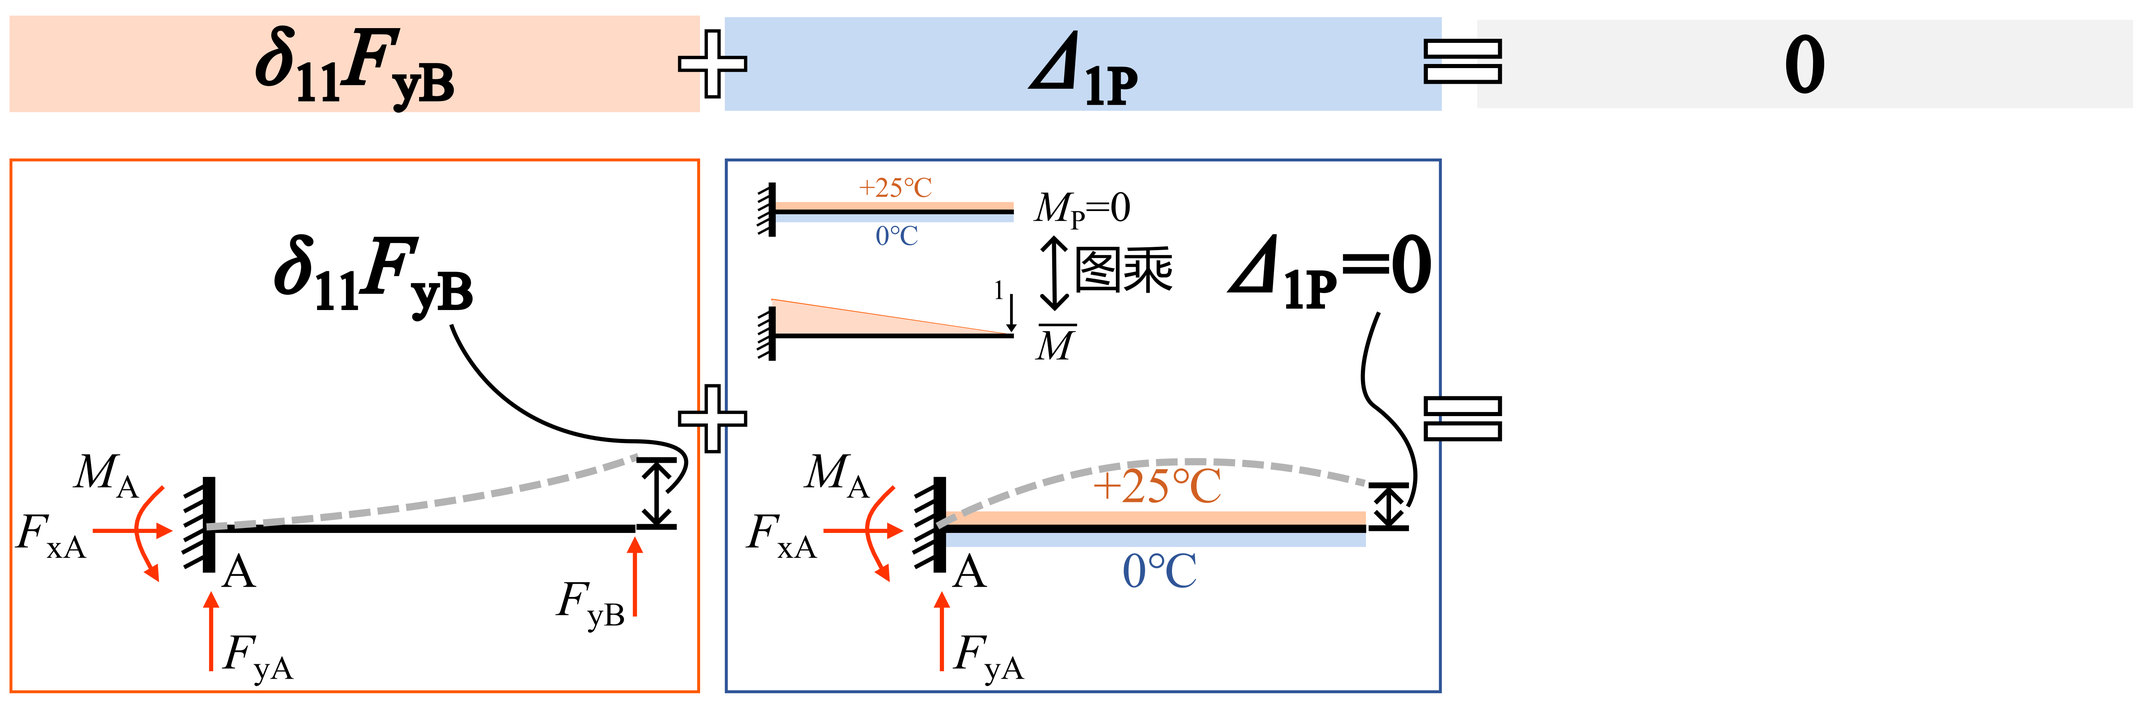
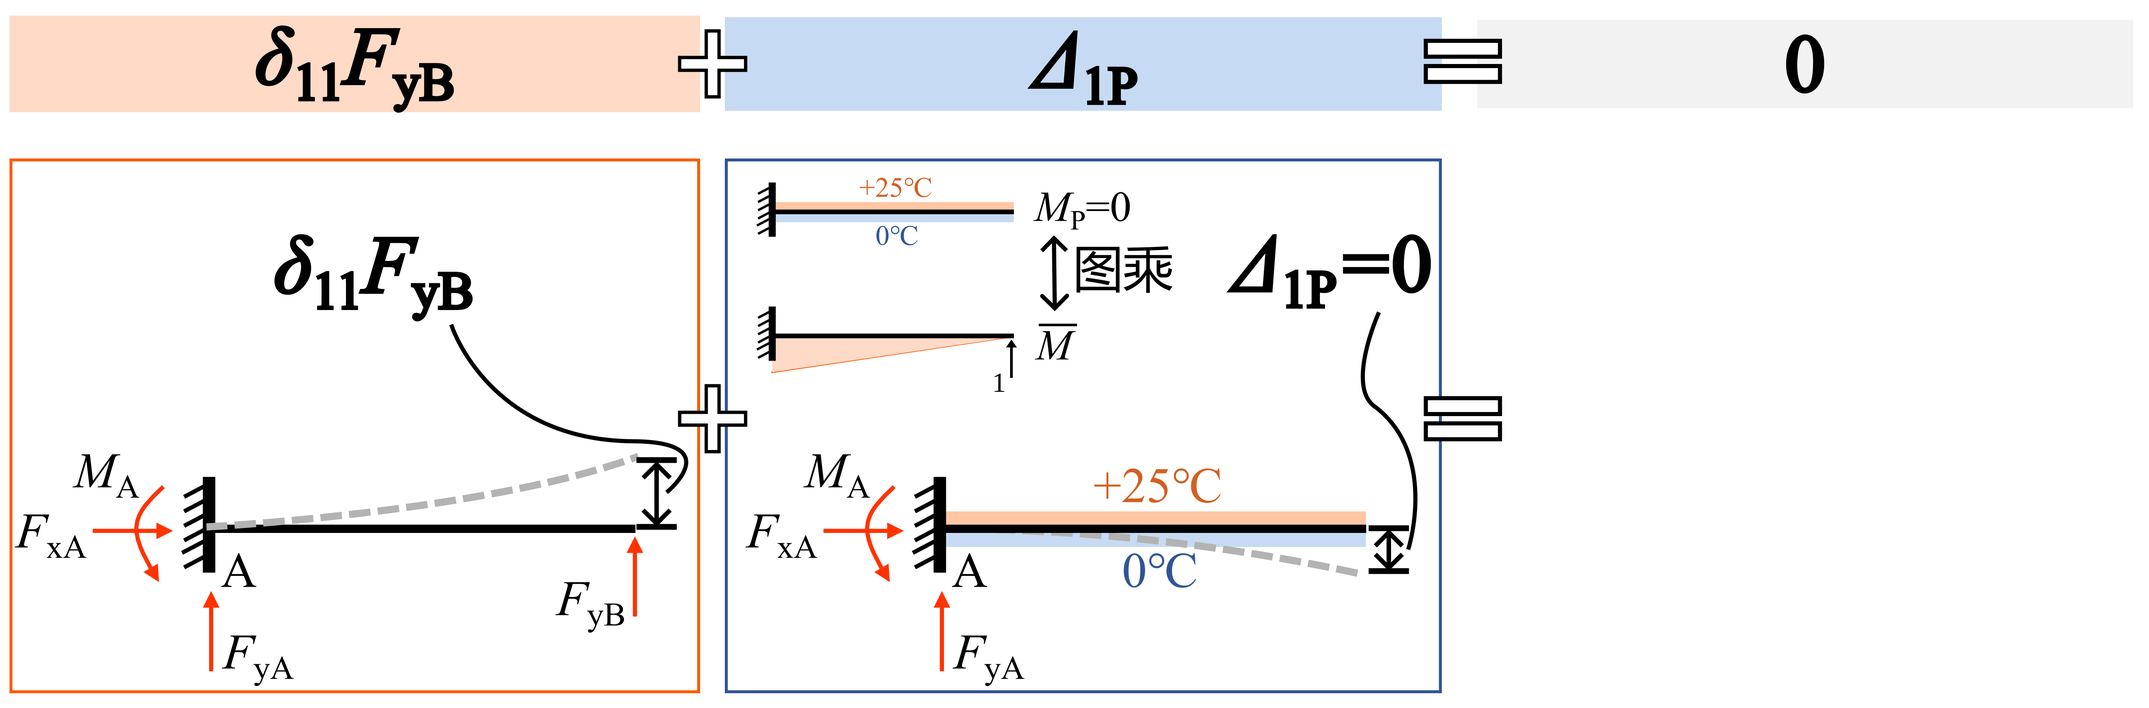
Add files via upload

diff --git a/static/app.js b/static/app.js
@@ -379,6 +379,7 @@ function showToast(message) {
 
 const OFFLINE_CLASSROOM_STATE_KEY = "beam-offline-classroom-state-v5-sep27-heat";
 const OFFLINE_STUDENT_STATE_KEY = "beam-offline-student-state-v5-sep27-heat";
+const TRANSFER_SCENARIO_HEAT = "beam-width-double-heat";
 
 function offlineStateKey() {
   return role === "teacher" || isPreview ? OFFLINE_CLASSROOM_STATE_KEY : OFFLINE_STUDENT_STATE_KEY;
@@ -403,6 +404,7 @@ function createOfflineState() {
     offline_choice: "",
     vote_feedback_visible: false,
     migration_answers_visible: false,
+    migration_scenario: TRANSFER_SCENARIO_HEAT,
     migration_choice: "",
     migration_comment: "",
     migration_submitted: false,
@@ -414,6 +416,16 @@ function loadOfflineState() {
     const saved = JSON.parse(localStorage.getItem(offlineStateKey()) || "null");
     if (saved?.progress && saved?.vote_counts) {
       saved.force_reveal_step = Math.min(A1_LAST_STEP_HEAT, Number(saved.force_reveal_step || 0));
+      // 迁移题已换成梁宽加倍：旧题的提交不能锁住新题，前面各阶段的进度继续保留。
+      if (saved.migration_scenario !== TRANSFER_SCENARIO_HEAT) {
+        saved.migration_scenario = TRANSFER_SCENARIO_HEAT;
+        saved.migration_answers_visible = false;
+        saved.migration_choice = "";
+        saved.migration_comment = "";
+        saved.migration_submitted = false;
+        saved.progress.migration = 0;
+        saveOfflineState(saved);
+      }
       return saved;
     }
   } catch (_) {}
@@ -810,7 +822,7 @@ function bindDeformationStoryboard() {
     slider.disabled = uniform;
     card.querySelector('[data-force-value]').textContent = `${formatNumberHeat(2 * deformationBasicX1)} kN`;
     card.querySelector('[data-force-readouts]').innerHTML = labReadouts(false, deformationBasicX1, mode)
-      + (step >= 4 ? `<div class="readout displacement-readout"><strong>${formatNumberHeat(1.5 - 4 * x1)} mm</strong><small>B点位移 Δ<sub>B</sub>（向下为正）</small></div>` : '');
+      + (step >= 4 ? `<div class="readout displacement-readout"><strong>${formatNumberHeat(4 * x1 - 1.5)} mm</strong><small>B点位移 Δ<sub>B</sub>（向上为正）</small></div>` : '');
     card.querySelector('.hint').innerHTML = uniform ? '温度单独作用，F<sub>yB</sub> 固定为零。' : '一个滑块共同控制上下两排。';
     card.querySelector('[data-special-candidates]').hidden = step < 4;
     document.querySelectorAll('[data-special-candidate]').forEach(button => button.setAttribute('aria-pressed', String(Number(button.dataset.specialCandidate) === x1)));
@@ -981,14 +993,14 @@ function updateDeformationFormulaValue(step, r) {
 }
 
 function deformationFormulaHtml(step, r = deformationBasicX1) {
-  // heat：温度引起的 B 点位移 αΔt·l²/(2h) = 1.5 mm（向下）；B 点总位移 = 1.5 − 4r mm（r 为内部值，FyB = 2r kN）。
+  // heat：全节沿 FyB（向上）为正。温度引起的 B 点位移 Δ1t = −αΔt·l²/(2h) = −1.5 mm（向下）；B 点总位移 = 4r − 1.5 mm（r 为内部值，FyB = 2r kN）。
   const uniform = '<span class="fraction"><span><i>α</i>Δ<i>t</i><i>l</i><sup>2</sup></span><span>2<i>h</i></span></span>';
   const fyb = '<span class="fraction"><span><i>l</i><sup>3</sup></span><span>3<i>E</i><i>I</i></span></span><i>F</i><sub><i>yB</i></sub>';
-  if (step === 2) return `&minus;${fyb}`;
-  if (step === 3) return `${uniform} = 1.5 mm`;
-  const combined = `Δ<sub>B</sub> = <span class="formula-fyb-heat">&minus;${fyb}</span> + <span class="formula-thermal-heat">(${uniform} = 1.5 mm)</span>`;
+  if (step === 2) return fyb;
+  if (step === 3) return `&minus;${uniform} = &minus;1.5 mm`;
+  const combined = `Δ<sub>B</sub> = <span class="formula-fyb-heat">${fyb}</span> + <span class="formula-thermal-heat">(&minus;${uniform} = &minus;1.5 mm)</span>`;
   if (step === 4) return combined;
-  const result = `${formatNumberHeat(1.5 - 4 * r)} mm`;
+  const result = `${formatNumberHeat(4 * r - 1.5)} mm`;
   return `${combined} = ${result}`;
 }
 
@@ -1031,6 +1043,7 @@ function updateDeformationReveal(state) {
 
 function renderForce() {
   app.innerHTML = `${steps(2)}<section class="panel force-story"><h1>${forceStepHeadings[0]}</h1>
+    ${calculationParametersHtmlHeat("compact")}
     <div class="force-composition">
       <div class="force-free-canvas" aria-label="11元素自由排版画布">
         ${Object.keys(FORCE_ELEMENT_META).map(forceElementHtml).join("")}
@@ -1057,6 +1070,7 @@ function renderDeformation() {
   lastDeformationRevealStep = 0;
   const slots = ["originalStructure", "originalMomentBg", "originalShearBg", "basicStructure", "basicMomentBg", "basicShearBg"];
   app.innerHTML = `${steps(3)}<section class="panel force-story deformation-story" data-reveal-step="0"><h1></h1>
+    ${calculationParametersHtmlHeat("compact")}
     <div class="force-composition deformation-composition">
       <div class="force-free-canvas" aria-label="切开竖向链杆前后的受力对照">
         <div class="deformation-row-divider" data-deformation-divider hidden aria-hidden="true"></div>
@@ -1084,6 +1098,19 @@ function renderDeformation() {
   document.querySelector(".force-free-canvas").insertAdjacentHTML("beforeend", compareViewHtmlHeat()); // heat
   bindDeformationStoryboard();
   updateDeformationReveal(currentState);
+}
+
+function calculationParametersHtmlHeat(variant) {
+  return `<aside class="calculation-parameters-heat parameters-${variant}-heat" data-calculation-parameters-heat aria-label="计算参数">
+    <strong class="parameters-heading-heat">计算参数</strong>
+    <div class="parameters-values-heat">
+      <span><i>l</i> = 3 m</span>
+      <span><i>h</i> = 0.30 m</span>
+      <span><i>EI</i> = 4500 kN·m<sup>2</sup></span>
+      <span><i>α</i> = 4×10<sup>−6</sup> /℃</span>
+      <span>Δ<i>t</i> = 25℃</span>
+    </div>
+  </aside>`;
 }
 
 // ===== heat：A1 右侧「力法步骤」框；协调图与位移公式 =====
@@ -1114,8 +1141,8 @@ const STEP_FORMULAS_HEAT = {
 };
 const STEP_FIGURES_HEAT = {
   methodStrip: { frames: METHOD_STRIP_FRAMES_HEAT, alt: "基本结构在 FyB 作用下和在温度作用下的 B 点位移，原结构 B 点位移为零" },
-  fybDisplacement: { src: METHOD_STRIP_FRAMES_HEAT[3], alt: "FyB 引起的 B 点位移：δ11 FyB = −l³ FyB / (3EI)", formulas: ["fyb"] },
-  thermalDisplacement: { src: "/assets/force-story/scene/A1-4-增补-新-5.png", alt: "力位移与温度位移：δ11 FyB = −l³ FyB / (3EI)，Δ1T = αΔt l² / (2h) = 1.5 mm", formulas: ["fyb", "thermal"] },
+  fybDisplacement: { src: METHOD_STRIP_FRAMES_HEAT[3], alt: "FyB 引起的 B 点位移：δ11 FyB = l³ FyB / (3EI)", formulas: ["fyb"] },
+  thermalDisplacement: { src: "/assets/force-story/scene/A1-4-增补-新-5.png", alt: "力位移与温度位移：δ11 FyB = l³ FyB / (3EI)，Δ1T = −αΔt l² / (2h) = −1.5 mm", formulas: ["fyb", "thermal"] },
   bendSources: { src: "/assets/force-story/scene/bend-sources-heat.png", alt: "弯曲变形的两个来源：由弯矩引起的用 M/EI 表示、用图乘法计算；由温度引起的不在 M/EI 里，要用温度位移公式" },
 };
 
@@ -1138,7 +1165,8 @@ function stepFigureHtmlHeat(kind) {
   } else {
     content = (figure.frames || [figure.src]).map((src, index) => `<img src="${runtimeUrl(src)}" alt="${figure.alt}" ${index ? "hidden" : ""}/>`).join("");
   }
-  return `<figure class="step-figure-heat" data-step-figure-heat="${kind}" hidden>${content}</figure>`;
+  const parameters = kind === "bendSources" ? "" : calculationParametersHtmlHeat("prominent");
+  return `<figure class="step-figure-heat" data-step-figure-heat="${kind}" hidden>${parameters}${content}</figure>`;
 }
 
 function methodStripIntervalHeat(figure) {
@@ -1173,6 +1201,7 @@ function playMethodStripHeat(figure) {
 function updateStepFigureHeat(story, on, kind) {
   if (!story) return;
   story.toggleAttribute("data-figure-heat", Boolean(on));
+  story.dataset.parametersHeat = on && kind !== "bendSources" ? "prominent" : "compact";
   story.querySelectorAll("[data-step-figure-heat]").forEach(figure => {
     const active = Boolean(on) && figure.dataset.stepFigureHeat === kind;
     const entering = active && figure.hidden;
@@ -1370,12 +1399,13 @@ function renderMigration() {
 // 每位同学一句想法，卡片开头的「+人数」= 句数；同一选项的几句连成一行，像走马灯一样向左滚动。
 // 下面是默认内容；在版面调试里可以改人数和文字（存在 layout-overrides.js 的 transfer 里）。人数为 0 的选项也显示卡片，写灰色的「暂无回答」。
 const TRANSFER_DEFAULT = {
-  B: 0,
-  C: 4,
+  scenario: TRANSFER_SCENARIO_HEAT,
+  B: 4,
+  C: 0,
   texts: {
-    A: ["需要增加木柱的力。", "平衡方程里要多一个木柱的力。"],
-    B: ["B点现在是会压缩的木柱，释放约束时要用木柱的力代替 <i>F</i><sub>yB</sub>。"],
-    C: ["温度让B点想往下走，木柱被压缩，位移不再是0。", "木柱能让出一点变形，Δ<sub>B</sub> 不再等于 0。", "B点的位移应等于木柱的附加压缩量 <i>F</i><sub>yB</sub>/<i>k</i>。", "B点向下的位移要和木柱的压缩量一样大，等于 <i>F</i><sub>yB</sub>/<i>k</i>。"],
+    A: [],
+    B: ["更新 <i>EI</i>，重新计算。", "δ<sub>11</sub> 减半。", "反力位移项减半，温度位移不变。", "2<i>F</i><sub>yB</sub> 改为 <i>F</i><sub>yB</sub>。"],
+    C: [],
   },
 };
 window.BEAM_TRANSFER_DEFAULT = structuredClone(TRANSFER_DEFAULT);
@@ -1424,13 +1454,13 @@ window.addEventListener("beam-votes-changed", refreshTransferCards);
 function renderTransfer() {
   const phone = isSelfGuidedStudent; // 手机：选、写、提交一次，提交后看到回答；教师投屏：点「显示回答」才出现
   app.innerHTML = `<section class="panel transfer-story">
-    <header class="transfer-head"><h1>考虑立柱压缩，哪一处求解条件需要调整？</h1></header>
+    <header class="transfer-head"><h1>木梁截面宽度加倍，求解过程哪里需要修改？</h1><p class="transfer-context-heat">梁高、跨度、材料和温差保持不变。</p></header>
     <div class="transfer-body">
       <div class="transfer-ask"><h3>选择位置 + 说明修改</h3>
         <div class="options transfer-options">
           <button class="option" data-transfer-choice="A" aria-pressed="false"><strong>A</strong><span>静力平衡条件</span></button>
-          <button class="option" data-transfer-choice="B" aria-pressed="false"><strong>B</strong><span>第一次提问<small>释放约束，用 <i>F</i><sub>yB</sub> 代替</small></span></button>
-          <button class="option" data-transfer-choice="C" aria-pressed="false"><strong>C</strong><span>第二次提问<small>补充位移条件</small></span></button>
+          <button class="option" data-transfer-choice="B" aria-pressed="false"><strong>B</strong><span>第一次提问<small>Δ<sub>1P</sub> = 0，计算 δ<sub>11</sub> 和 <i>F</i><sub>yB</sub></small></span></button>
+          <button class="option" data-transfer-choice="C" aria-pressed="false"><strong>C</strong><span>第二次提问<small>补上温度位移，令B点总位移为0</small></span></button>
         </div>
         <label class="transfer-label" for="transferIdea">你准备怎样修改？</label>
         <div class="vote-submit-row${phone ? "" : " transfer-idea-only"}"><input id="transferIdea" type="text" maxlength="80" placeholder="写一句修改想法……"/>${phone ? '<button class="primary" id="submitTransfer" disabled>提交</button>' : ""}</div>

diff --git a/static/styles.css b/static/styles.css
@@ -715,6 +715,7 @@ body:not(.layout-mode) :is(.transfer-options small, .transfer-options small *, .
 .transfer-story { display: grid; gap: 20px; }
 .transfer-head { padding-bottom: 16px; border-bottom: 1px solid var(--line); }
 .transfer-head h1 { margin: 0; line-height: 1.4; }
+.transfer-context-heat { margin: 4px 0 0; color: var(--muted); line-height: 1.3; }
 .transfer-body { display: grid; grid-template-columns: minmax(0, 1fr) minmax(0, 1.25fr); gap: 28px; align-items: start; }
 .transfer-body h3 { margin: 0 0 12px; }
 .transfer-options { margin-top: 0; }
@@ -752,6 +753,9 @@ body:not(.layout-mode) .transfer-card .transfer-count { font-size: calc((var(--t
 /* M 页字号和 A2-6（E 投票页）对齐（投屏宽屏档）：题目 150%、两栏标题 140%、选项和回答 160%、「你准备怎样修改？」和输入框 150%。
    在版面调试里再调文字大小，是在这个基础上放大缩小。手机上不变。 */
 @media (min-width: 1300px) {
+  .transfer-story { gap: 14px; }
+  .transfer-head { padding-bottom: 12px; }
+  .transfer-options .option { padding: 12px 18px; }
   body:not(.layout-mode) :is(.transfer-head h1, .transfer-head h1 *) { font-size: calc(var(--text-title) * 1.5) !important; }
   body:not(.layout-mode) :is(.transfer-body h3, .transfer-body h3 *) { font-size: calc(var(--text-title) * 1.4) !important; }
   body:not(.layout-mode) .transfer-options .option :is(strong, span) { font-size: calc(var(--text-body) * 1.6) !important; }
@@ -833,3 +837,36 @@ body .step-figure-formula-heat :is(sub, sup) { font-size: 70% !important; line-h
 .caption-role-heat[hidden] { display: none !important; }
 body:not(.layout-mode) .caption-role-heat { font-size: var(--text-small) !important; }
 .force-story:not(.deformation-story) .caption-role-heat { display: block; text-align: center; }
+
+/* 同一组题设：整图页放在顶部留白，其余计算页在标题旁显示，窄屏换行。 */
+.calculation-parameters-heat { --heat-parameters-size: 20px; --text-body: calc(var(--heat-parameters-size) * var(--heat-parameters-scale, 1)); box-sizing: border-box; color: #344c68; line-height: 1.45; }
+body .calculation-parameters-heat, body .calculation-parameters-heat * { font-size: var(--text-body) !important; }
+body .calculation-parameters-heat sup { font-size: .65em !important; line-height: 0; }
+.parameters-values-heat { display: flex; flex-wrap: wrap; align-items: baseline; gap: 4px 24px; }
+.parameters-values-heat > span { white-space: nowrap; }
+.parameters-heading-heat { flex-shrink: 0; color: var(--blue); }
+.parameters-compact-heat { display: flex; flex: 0 0 auto; align-items: baseline; gap: 10px 20px; margin: 0 14px 10px; padding: 5px 0 8px; border-bottom: 1px solid #dce5ee; }
+.force-story[data-parameters-heat="prominent"] > .parameters-compact-heat { display: none; }
+.parameters-prominent-heat { --heat-parameters-size: 30px; position: absolute; z-index: 3; top: 22px; left: 24px; right: 24px; padding: 12px 18px; border-left: 5px solid var(--blue); border-radius: 0 10px 10px 0; background: #f0f5fb; font-weight: 700; }
+.parameters-prominent-heat .parameters-heading-heat { display: block; margin-bottom: 5px; letter-spacing: .08em; }
+body .parameters-prominent-heat .parameters-heading-heat { font-size: calc(var(--text-body) * .7) !important; }
+@media (min-width: 781px) {
+  .force-story:has(.method-steps-heat:not([hidden])) .parameters-prominent-heat { right: calc(var(--force-control-width) + 24px); }
+  .step-figure-heat:has(> .parameters-prominent-heat) > :is(img, svg) { top: 154px; height: calc(100% - 164px); }
+}
+@media (min-width: 1300px) {
+  .force-story:has(> .parameters-compact-heat) { position: relative; }
+  .parameters-compact-heat { position: absolute; top: 9px; right: 14px; margin: 0; padding: 3px 0; border: 0; }
+  .force-story:has(.method-steps-heat:not([hidden])) .parameters-prominent-heat { right: 398px; }
+}
+@media (min-width: 781px) and (max-width: 1299px) {
+  .parameters-prominent-heat { --heat-parameters-size: 24px; top: 14px; left: 16px; padding: 10px 14px; }
+  .parameters-values-heat { column-gap: 18px; }
+}
+@media (max-width: 780px) {
+  .calculation-parameters-heat { --heat-parameters-size: 16px; }
+  .parameters-compact-heat { display: block; margin: 0 14px 10px; }
+  .parameters-compact-heat .parameters-heading-heat { display: block; margin-bottom: 4px; }
+  .parameters-prominent-heat { position: static; margin: 12px; padding: 10px 12px; }
+  .parameters-values-heat { gap: 5px 18px; }
+}

diff --git a/static/layout-tuner.js b/static/layout-tuner.js
@@ -308,6 +308,7 @@
     // heat：A1-1～A1-5 右侧「力法步骤」框，以及各页整图
     { key: "methodStepsHeat", label: "「力法步骤」框", sel: "#app .method-steps-heat", kind: "box" },
     { key: "methodStepsTitleHeat", label: "「力法步骤」标题", sel: "#app .method-steps-heat > h2", kind: "text" },
+    { key: "calculationParametersHeat", label: "计算参数（整体）", sel: "#app [data-calculation-parameters-heat]", kind: "group" },
     { key: "methodStripHeat", label: "A1-4 顺序示意图", sel: '#app [data-step-figure-heat="methodStrip"]', kind: "box" },
     { key: "fybDisplacementHeat", label: "A1-5 FyB 位移图", sel: '#app [data-step-figure-heat="fybDisplacement"]', kind: "box" },
     { key: "bendSourcesHeat", label: "A2-1 弯曲变形的两个来源", sel: '#app [data-step-figure-heat="bendSources"]', kind: "box" },
@@ -317,6 +318,7 @@
     { key: "tfStory", label: "M：整块面板", sel: "#app > .transfer-story", kind: "panel" },
     { key: "tfHead", label: "M：题目区", sel: "#app .transfer-head", kind: "group" },
     { key: "tfTitle", label: "M：题目", sel: "#app .transfer-head h1", kind: "text" },
+    { key: "tfContextHeat", label: "M：情境条件", sel: "#app .transfer-context-heat", kind: "text" },
     { key: "tfBody", label: "M：左右两栏", sel: "#app .transfer-body", kind: "group" },
     { key: "tfAsk", label: "M：左栏（选择与修改）", sel: "#app .transfer-ask", kind: "group" },
     { key: "tfAskTitle", label: "M：「选择位置 + 说明修改」", sel: "#app .transfer-ask > h3", kind: "text" },
@@ -537,6 +539,9 @@
   // M 页学生回答：{ B: 人数, C: 人数, texts: { A: [每人一句…], B: […], C: […] } }，不对就不用。
   function normTransfer(raw) {
     if (!raw || typeof raw !== "object") return null;
+    // 只更新旧题的回答；恢复编辑草稿时保留其它页面和版面调整。
+    const current = window.BEAM_TRANSFER_DEFAULT;
+    if (current?.scenario && raw.scenario !== current.scenario) raw = current;
     const count = (value) => { const n = Math.round(Number(value)); return Number.isFinite(n) && n >= 0 ? Math.min(n, 999) : null; };
     const B = count(raw.B);
     const C = count(raw.C);
@@ -546,7 +551,7 @@
       const list = raw.texts && Array.isArray(raw.texts[key]) ? raw.texts[key] : [];
       texts[key] = list.slice(0, 999).map((text) => String(text == null ? "" : text).slice(0, 300));
     }
-    return { B, C, texts };
+    return { scenario: raw.scenario, B, C, texts };
   }
   // 教师版各页画布的大小（手机照搬用）：{ width: 量的时候教师版页面的宽（px），pages: { "A1-0": [画布宽, 画布高]（px）, … } }
   function normCanvas(raw) {
@@ -666,7 +671,11 @@
     if (p.pb != null) d.push(`padding-bottom: ${p.pb}px${I}`);
     if (p.gap != null) d.push(`gap: ${p.gap}px${I}`);
     if (p.order != null) d.push(`order: ${p.order}${I}`);
-    if (p.text != null) d.push(...textVars(round(p.text / 100, 4)));
+    if (p.text != null) {
+      const scale = round(p.text / 100, 4);
+      if (entry.sel === "#app [data-calculation-parameters-heat]") d.push(`--heat-parameters-scale: ${scale}${I}`);
+      else d.push(...textVars(scale));
+    }
     if (p.ar != null) d.push(`aspect-ratio: ${p.ar}${I}`);
     if (p.colR != null) d.push(`grid-template-columns: minmax(0, 1fr) ${p.colR}px${I}`);
     if (p.heroL != null) d.push(`grid-template-columns: minmax(0, ${p.heroL}fr) minmax(0, ${round(100 - p.heroL, 2)}fr)${I}`);
@@ -828,7 +837,7 @@
           const scope = scopeFor(bucketKey, regimeKey);
           for (const [entryKey, entry] of Object.entries(pages[bucketKey])) {
             const body = !inherit ? declarations(entry)
-              : replica ? (REPLICA_KINDS.has(entry.kind) || entry.kind === "canvas" ? replicaDeclarations(entry, replica) : declarations(entry, ["frameInterval"]))
+              : replica ? (REPLICA_KINDS.has(entry.kind) || entry.kind === "canvas" ? replicaDeclarations(entry, replica) : declarations(entry, entryKey === "calculationParametersHeat" ? ["text"] : ["frameInterval"]))
               : declarations(Object.assign({}, entry, { props: inheritedProps(entry) }));
             // :where() 不增加优先级，保持「两种视图 → 当前视图」的先后关系。
             const layoutScope = isConsoleKey(bucketKey) && FRAME_OWNED.has(entryKey) ? `${scope}:where(:not(.beam-frame))` : scope;

diff --git a/static/layout-overrides-heat.js b/static/layout-overrides-heat.js
@@ -871,7 +871,7 @@ window.BEAM_LAYOUT_OVERRIDES = {
           "kind": "figureFormula",
           "label": "紫色温度位移公式",
           "props": {
-            "formulaScale": 120,
+            "formulaScale": 112,
             "formulaX": 2954.3,
             "formulaY": 535
           },
@@ -1643,23 +1643,18 @@ window.BEAM_LAYOUT_OVERRIDES = {
   },
   "savedAt": "2026-10-11 19:51:15",
   "transfer": {
-    "B": 0,
-    "C": 5,
+    "scenario": "beam-width-double-heat",
+    "B": 4,
+    "C": 0,
     "texts": {
-      "A": [
-        "需要增加木柱的力。",
-        "平衡方程里要多一个木柱的力。"
-      ],
+      "A": [],
       "B": [
-        "B点现在是会压缩的木柱，释放约束时要用木柱的力代替 <i>F</i><sub>yB</sub>。"
+        "更新 <i>EI</i>，重新计算。",
+        "δ<sub>11</sub> 减半。",
+        "反力位移项减半，温度位移不变。",
+        "2<i>F</i><sub>yB</sub> 改为 <i>F</i><sub>yB</sub>。"
       ],
-      "C": [
-        "温度让B点想往下走，木柱被压缩，位移不再是0。",
-        "B点的位移应等于木柱的附加压缩量 <i>F</i><sub>yB</sub>/<i>k</i>。",
-        "B点不能再设位移为零。",
-        "木柱能让出一点变形，Δ<sub>B</sub> 不再等于 0。",
-        "B点向下的位移要和木柱的压缩量一样大，等于 <i>F</i><sub>yB</sub>/<i>k</i>。"
-      ]
+      "C": []
     }
   },
   "version": 3,

diff --git a/student.html b/student.html
@@ -5,7 +5,7 @@
     <meta name="viewport" content="width=device-width,initial-scale=1,viewport-fit=cover" />
     <meta name="theme-color" content="#f3eee4" />
     <title>BEAM LAB · 学生体验页-heat</title>
-    <link rel="stylesheet" href="./static/styles.css?v=v10-oct11-formula-edit-heat" />
+    <link rel="stylesheet" href="./static/styles.css?v=v12-oct12-transfer-width-heat" />
   </head>
   <body>
     <header class="topbar">
@@ -25,10 +25,10 @@
     <script src="./static/offline-data.js?v=v6-oct11-a1a2-heat"></script>
     <!-- 版面调试保存的配置（由 static/layout-tuner.js 读取） -->
     <script>document.write('<script src="./static/layout-overrides-heat.js?t=' + Date.now() + '"><\/script>');</script>
-    <script src="./static/app.js?v=v10-oct11-formula-edit-heat"></script>
+    <script src="./static/app.js?v=v12-oct12-transfer-width-heat"></script>
     <script src="./static/typography.js?v=v6-sep30-m2-heat"></script>
     <!-- 版面：套用保存的版面（手机上先继承教师版）；手机版面在 student-edit.html 里调 -->
-    <script src="./static/layout-tuner.js?v=tuner-17-heat"></script>
+    <script src="./static/layout-tuner.js?v=tuner-19-heat"></script>
   </body>
 </html>
 

diff --git a/static/index.html b/static/index.html
@@ -5,7 +5,7 @@
     <meta name="viewport" content="width=device-width,initial-scale=1,viewport-fit=cover" />
     <meta name="theme-color" content="#f3eee4" />
     <title>BEAM 数智虚拟实验室</title>
-    <link rel="stylesheet" href="/styles.css?v=v10-oct11-formula-edit-heat" />
+    <link rel="stylesheet" href="/styles.css?v=v12-oct12-transfer-width-heat" />
   </head>
   <body>
     <header class="topbar">
@@ -18,7 +18,7 @@
     <main id="app" aria-live="polite"></main>
     <div id="toast" class="toast" role="status"></div>
     <script src="/compat.js?v=v5-sep27-5"></script>
-    <script src="/app.js?v=v10-oct11-formula-edit-heat"></script>
+    <script src="/app.js?v=v12-oct12-transfer-width-heat"></script>
     <script src="/static/typography.js?v=v6-sep30-m2-heat"></script>
   </body>
 </html>
